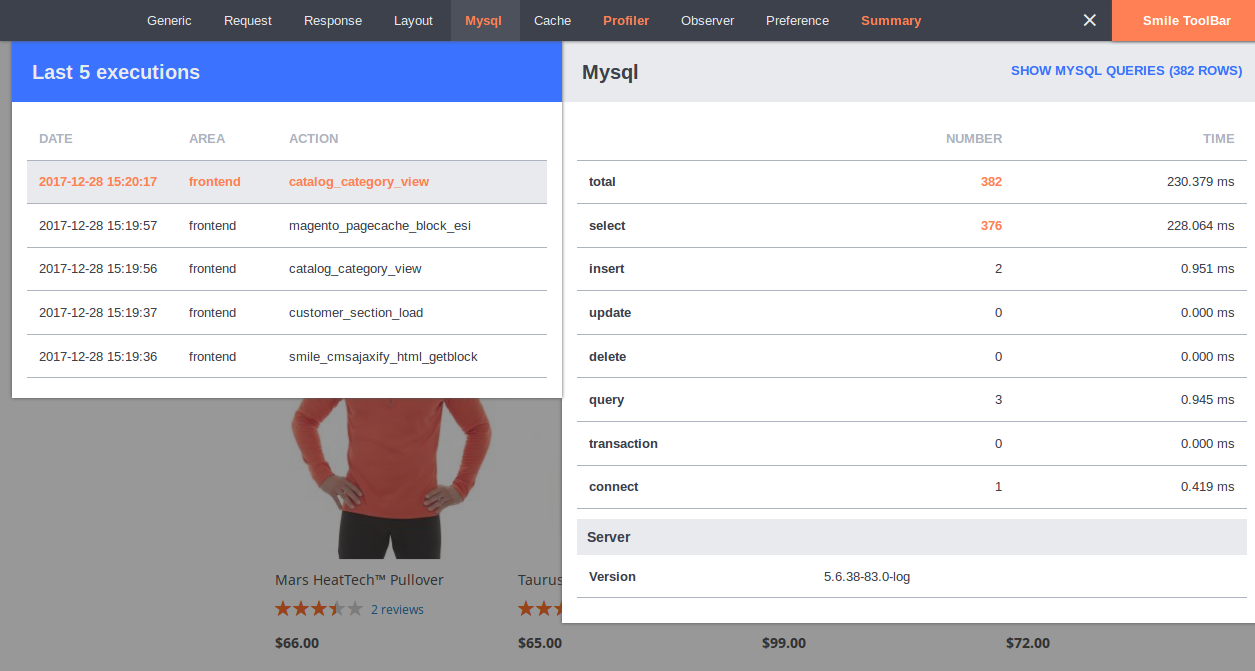
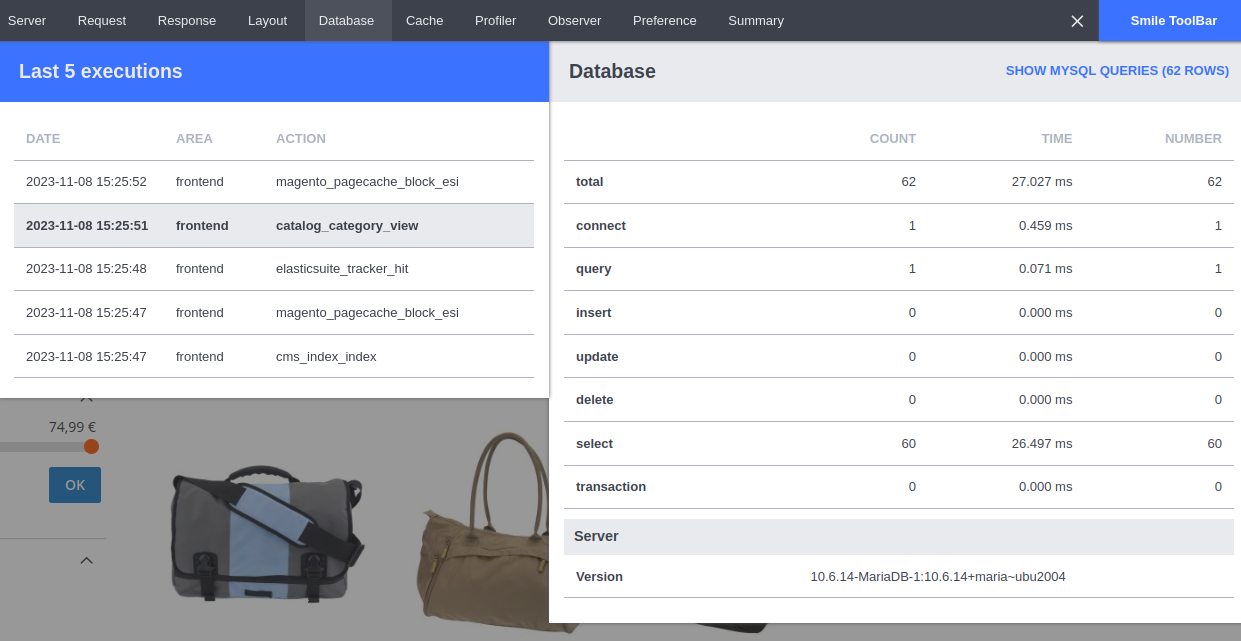
Code cleanup / fix typos

diff --git a/Helper/Cache.php b/Helper/Cache.php
@@ -23,7 +23,7 @@ class Cache extends AbstractHelper
         parent::__construct($context);
         $this->cacheUsage = [];
         $this->cacheStats = [
-            'Number' => [
+            'Count' => [
                 'total' => 0,
                 'load' => 0,
                 'save' => 0,
@@ -52,23 +52,23 @@ class Cache extends AbstractHelper
         if (!array_key_exists($identifier, $this->cacheUsage)) {
             $this->cacheUsage[$identifier] = [
                 'identifier' => $identifier,
-                'nb_call' => 0,
-                'size_total' => 0,
-                'size_mean' => 0,
-                'time_total' => 0,
-                'time_mean' => 0,
+                'call_count' => 0,
+                'total_size' => 0,
+                'mean_size' => 0,
+                'total_time' => 0,
+                'mean_time' => 0,
                 'calls' => [],
             ];
         }
 
         $usage = $this->cacheUsage[$identifier];
 
-        $usage['nb_call']++;
-        $usage['size_total'] += $size;
-        $usage['time_total'] += $deltaTime;
+        $usage['call_count']++;
+        $usage['total_size'] += $size;
+        $usage['total_time'] += $deltaTime;
 
-        $usage['size_mean'] = $usage['size_total'] / $usage['nb_call'];
-        $usage['time_mean'] = $usage['time_total'] / $usage['nb_call'];
+        $usage['mean_size'] = $usage['total_size'] / $usage['call_count'];
+        $usage['mean_time'] = $usage['total_time'] / $usage['call_count'];
 
         $usage['calls'][] = [
             'action' => $action,
@@ -78,11 +78,11 @@ class Cache extends AbstractHelper
 
         $this->cacheUsage[$identifier] = $usage;
 
-        $this->cacheStats['Number']['total']++;
+        $this->cacheStats['Count']['total']++;
         $this->cacheStats['Time']['total'] += $deltaTime;
         $this->cacheStats['Size']['total'] += $size;
 
-        $this->cacheStats['Number'][$action]++;
+        $this->cacheStats['Count'][$action]++;
         $this->cacheStats['Time'][$action] += $deltaTime;
         $this->cacheStats['Size'][$action] += $size;
     }

diff --git a/Observer/AddZones.php b/Observer/AddZones.php
@@ -7,17 +7,8 @@ namespace Smile\DebugToolbar\Observer;
 use Magento\Framework\Event\Observer;
 use Magento\Framework\Event\ObserverInterface;
 use Smile\DebugToolbar\Block\Zone\AbstractZone;
-use Smile\DebugToolbar\Block\Zone\CacheFactory;
-use Smile\DebugToolbar\Block\Zone\GenericFactory;
-use Smile\DebugToolbar\Block\Zone\LayoutFactory;
-use Smile\DebugToolbar\Block\Zone\MysqlFactory;
-use Smile\DebugToolbar\Block\Zone\ObserverFactory;
-use Smile\DebugToolbar\Block\Zone\PreferenceFactory;
-use Smile\DebugToolbar\Block\Zone\ProfilerFactory;
 use Smile\DebugToolbar\Block\Zone\Request;
-use Smile\DebugToolbar\Block\Zone\RequestFactory;
 use Smile\DebugToolbar\Block\Zone\Response;
-use Smile\DebugToolbar\Block\Zone\ResponseFactory;
 use Smile\DebugToolbar\Block\Zone\Summary;
 
 /**
@@ -25,30 +16,8 @@ use Smile\DebugToolbar\Block\Zone\Summary;
  */
 class AddZones implements ObserverInterface
 {
-    protected array $blockFactories;
-
-    public function __construct(
-        CacheFactory $cacheBlockFactory,
-        GenericFactory $genericBlockFactory,
-        LayoutFactory $layoutBlockFactory,
-        MysqlFactory $mysqlBlockFactory,
-        ObserverFactory $observerBlockFactory,
-        PreferenceFactory $preferenceBlockFactory,
-        ProfilerFactory $profilerBlockFactory,
-        RequestFactory $requestBlockFactory,
-        ResponseFactory $responseBlockFactory
-    ) {
-        $this->blockFactories = [
-            $genericBlockFactory,
-            $requestBlockFactory,
-            $responseBlockFactory,
-            $layoutBlockFactory,
-            $mysqlBlockFactory,
-            $cacheBlockFactory,
-            $profilerBlockFactory,
-            $observerBlockFactory,
-            $preferenceBlockFactory,
-        ];
+    public function __construct(protected array $blockFactories)
+    {
     }
 
     /**

diff --git a/Helper/Preference.php b/Helper/Preference.php
@@ -49,7 +49,7 @@ class Preference extends AbstractHelper
         ksort($pluginInstances);
 
         $plugins = [];
-        foreach ($pluginInstances as $originalClassname => $pluginList) {
+        foreach ($pluginInstances as $type => $pluginList) {
             ksort($pluginList);
             foreach ($pluginList as $pluginName => $pluginInstance) {
                 $methods = $definitions->getMethodList($pluginInstance);
@@ -59,12 +59,11 @@ class Preference extends AbstractHelper
                 }
 
                 $plugins[] = [
-                    'main_classname' => $originalClassname,
-                    'nb_plugins' => count($pluginList),
-                    'plugin_name' => $pluginName,
-                    'plugin_classname' => get_class($pluginInstance),
-                    'plugin_nb_methods' => count($methods),
-                    'plugin_methods' => $methods,
+                    'classname' => get_class($pluginInstance),
+                    'name' => $pluginName,
+                    'method_count' => count($methods),
+                    'methods' => $methods,
+                    'original_classname' => $type,
                 ];
             }
         }

diff --git a/Block/Zone/Database.php b/Block/Zone/Database.php
@@ -11,9 +11,9 @@ use Smile\DebugToolbar\Helper\Data as DataHelper;
 use Smile\DebugToolbar\Model\ResourceModel\Info as ResourceModel;
 
 /**
- * MySQL section.
+ * Database section.
  */
-class Mysql extends AbstractZone
+class Database extends AbstractZone
 {
     public function __construct(
         Context $context,
@@ -31,7 +31,7 @@ class Mysql extends AbstractZone
      */
     public function getCode(): string
     {
-        return 'mysql';
+        return 'database';
     }
 
     /**
@@ -39,7 +39,7 @@ class Mysql extends AbstractZone
      */
     public function getTitle(): string
     {
-        return 'Mysql';
+        return 'Database';
     }
 
     /**

diff --git a/Block/Zone/Server.php b/Block/Zone/Server.php
@@ -13,9 +13,9 @@ use Smile\DebugToolbar\Formatter\FormatterFactory;
 use Smile\DebugToolbar\Helper\Data as DataHelper;
 
 /**
- * Generic section.
+ * Server section.
  */
-class Generic extends AbstractZone
+class Server extends AbstractZone
 {
     public function __construct(
         Context $context,
@@ -34,7 +34,7 @@ class Generic extends AbstractZone
      */
     public function getCode(): string
     {
-        return 'generic';
+        return 'server';
     }
 
     /**
@@ -42,7 +42,7 @@ class Generic extends AbstractZone
      */
     public function getTitle(): string
     {
-        return 'Generic';
+        return 'Server';
     }
 
     /**

diff --git a/Helper/Data.php b/Helper/Data.php
@@ -237,8 +237,12 @@ class Data extends AbstractHelper
      */
     public function getFullPageCacheMode(): string
     {
-        $key = 'system/full_page_cache/caching_application';
+        $value = (int) $this->scopeConfig->getValue('system/full_page_cache/caching_application');
 
-        return $this->scopeConfig->getValue($key) === PageCacheConfig::VARNISH ? 'varnish' : 'built-in';
+        return match ($value) {
+            PageCacheConfig::VARNISH => 'varnish',
+            42 => 'fastly',
+            default => 'built-in'
+        };
     }
 }

diff --git a/Block/Zone/Summary.php b/Block/Zone/Summary.php
@@ -38,12 +38,14 @@ class Summary extends AbstractZone
     /**
      * @inheritdoc
      */
-    public function addToSummary(string $sectionName, string $key, mixed $value): void
+    public function addToSummary(string $sectionName, string $key, mixed $value): self
     {
         if (is_array($value) && array_key_exists('has_warning', $value) && $value['has_warning']) {
             $this->hasWarning();
         }
 
         $this->summary[$sectionName][$key] = $value;
+
+        return $this;
     }
 }

diff --git a/Block/Zone/AbstractZone.php b/Block/Zone/AbstractZone.php
@@ -62,9 +62,11 @@ abstract class AbstractZone extends Template
     /**
      * Add a value to the summary.
      */
-    public function addToSummary(string $sectionName, string $key, mixed $value): void
+    public function addToSummary(string $sectionName, string $key, mixed $value): self
     {
         $this->summaryBlock->addToSummary($sectionName, $key, $value);
+
+        return $this;
     }
 
     /**

diff --git a/Model/ResourceModel/Info.php b/Model/ResourceModel/Info.php
@@ -57,7 +57,6 @@ class Info
         if ($this->version === null) {
             $this->version = [];
 
-            //@SmileAnalyserSkip magento2/mysql
             $values = $this->getConnection()->query('SHOW VARIABLES LIKE "%version%"')->fetchAll();
             foreach ($values as $value) {
                 $this->version[$value['Variable_name']] = $value['Value'];

diff --git a/Block/Zone/Cache.php b/Block/Zone/Cache.php
@@ -45,7 +45,7 @@ class Cache extends AbstractZone
     /**
      * Get the cache mode.
      */
-    public function getCacheMode(): string
+    public function getCacheBackend(): string
     {
         $config = $this->deployConfig->get('cache');
         if (!$config || !is_array($config) || empty($config['frontend']['default']['backend'])) {

diff --git a/CHANGELOG.md b/CHANGELOG.md
@@ -2,6 +2,14 @@
 
 All notable changes to this project will be documented in this file.
 
+## WIP
+
+- Renamed the "Generic" zone to "Server"
+- Renamed the "Mysql" zone to "Database"
+- Fixed typos
+- Fine-tuned warning threshold for various statistics
+- Moved block factories initialization to di.xml file
+
 ## [7.0.0] - 2023-09-05
 [7.0.0]: https://github.com/Smile-SA/magento2-module-debug-toolbar/compare/6.1.3...7.0.0
 
